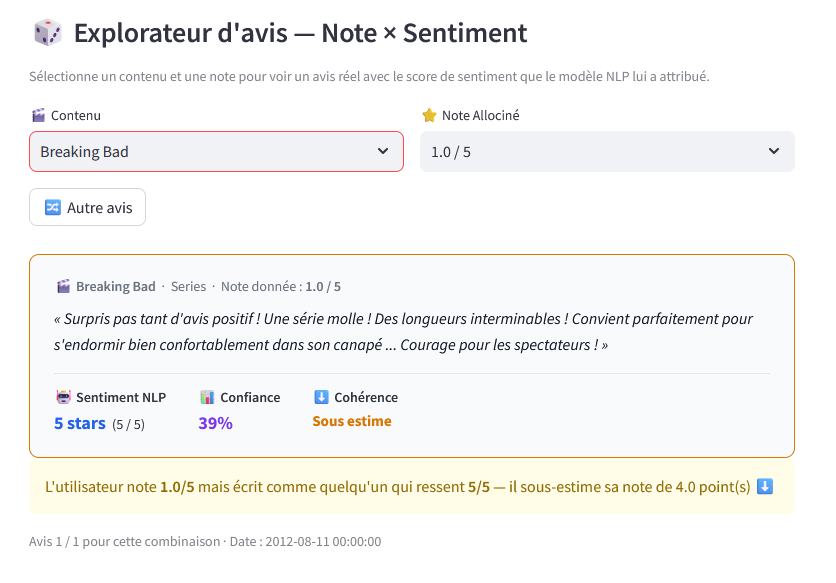
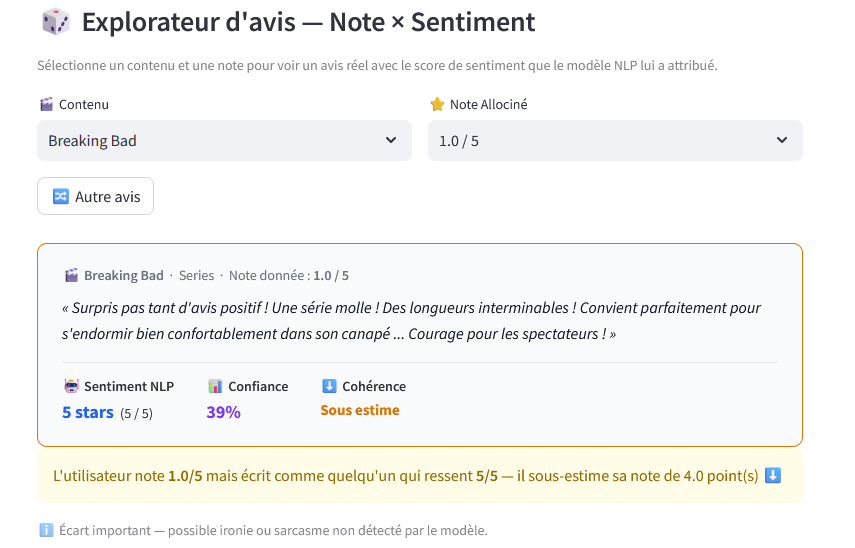
feat: add review explorer + irony detection note, docs: update README with sarcasm limits

diff --git a/README.md b/README.md
@@ -172,11 +172,28 @@ def compute_coherence(note: float, sentiment_score: int) -> str:
 > Les 14% restants révèlent des comportements intéressants — des utilisateurs
 > qui sur-notent ou sous-notent par rapport à ce qu'ils écrivent réellement.
 
+### Limites du modèle — Ironie et sarcasme
+
+BERT détecte la polarité des mots de manière **littérale** — il ne comprend pas
+l'ironie ou le sarcasme. Par exemple, un avis notant **1/5 Breaking Bad** avec
+le texte *"Convient parfaitement pour s'endormir bien confortablement dans son canapé"*
+se voit attribuer un sentiment de **5 étoiles** car les mots "parfaitement" et
+"confortablement" sont positivement connotés, alors que l'intention est clairement
+sarcastique.
+
+![Limite sarcasme](outputs/dashboard_limite_sarcasme.png)
+
+Ces cas font partie des 14% d'incohérences détectées et constituent un **problème
+ouvert en NLP** — même les modèles les plus avancés s'y trompent parfois. Une
+piste d'amélioration serait d'utiliser un modèle fine-tuné spécifiquement sur
+des données sarcastiques en français, comme **CamemBERT** enrichi de données
+annotées manuellement.
+
 ---
 
 ## 📊 Visualisations — Aperçu du dashboard
 
-Le dashboard contient **9 graphiques** + une console BigQuery :
+Le dashboard contient **8 graphiques** + un explorateur d'avis interactif + une console BigQuery :
 
 | # | Titre | Description |
 |---|-------|-------------|
@@ -188,6 +205,7 @@ Le dashboard contient **9 graphiques** + une console BigQuery :
 | 6 | 📅 Évolution temporelle du sentiment | Courbe sentiment moyen dans le temps |
 | 7 | 🎯 Score de confiance du modèle NLP | Distribution + confiance par label |
 | 8 | 🔵 Note vs Sentiment — vue individuelle | Scatter plot avec droite de régression |
+| — | 🎲 Explorateur d'avis — Note × Sentiment | Sélectionne un contenu + une note → avis réel avec score NLP, confiance et cohérence |
 | — | 🧮 Requête BigQuery personnalisée | Console SQL sur la table BigQuery live |
 
 ### ⭐ Note Allociné vs Score Sentiment NLP
